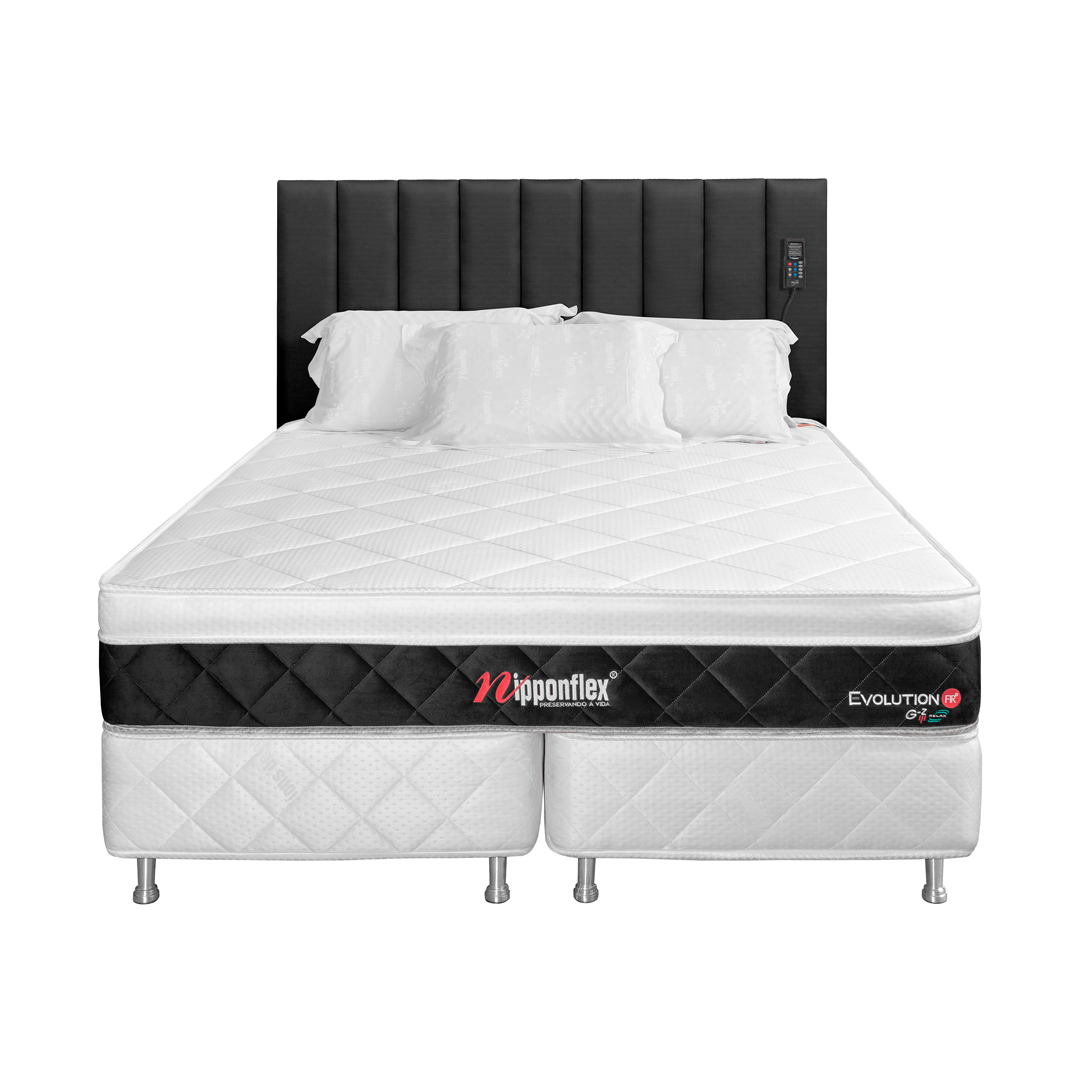
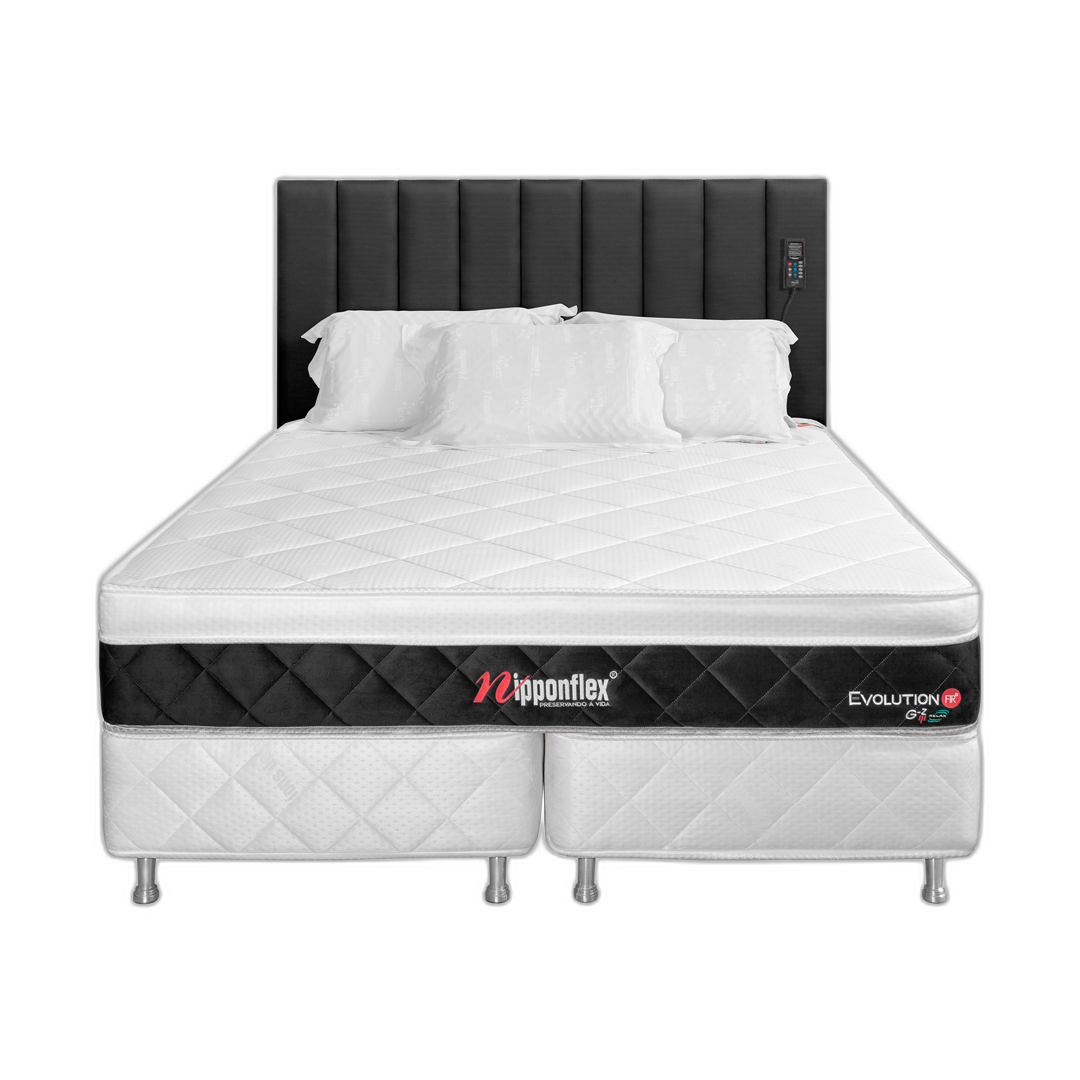
Remove backgrounds from all product images + update refs
All 27 product images processed with rembg for transparent backgrounds.
JPG/JPEG files converted to PNG. Updated references in index.html and main.js.

diff --git a/js/main.js b/js/main.js
@@ -37,7 +37,7 @@
       densidade: 'Progressiva',
       pillow: 'Euro Top',
       techs: ['FIR Power', 'FIR NG', 'MFP', 'Rabatan', 'Íon Balls', 'Magnetos', 'EPS 2000'],
-      imagens: ['star-prime-1.jpg', 'star-prime-2.jpg', 'star-prime-3.jpg'],
+      imagens: ['star-prime-1.png', 'star-prime-2.png', 'star-prime-3.png'],
       idealPara: ['Quem busca o melhor', 'Dores crônicas', 'Profissionais intensos']
     },
     'american-fir': {
@@ -49,7 +49,7 @@
       densidade: 'Progressiva',
       pillow: 'Euro Top',
       techs: ['FIR Power', 'FIR NG', 'MFP', 'Rabatan', 'Íon Balls', 'Magnetos', 'BioPower', 'EPS 2000', 'Íons de Prata'],
-      imagens: ['american-1.jpg', 'american-2.jpeg', 'american-3.jpeg', 'american-4.png'],
+      imagens: ['american-1.png', 'american-2.png', 'american-3.png', 'american-4.png'],
       idealPara: ['Casais exigentes', 'Quem quer massagem ativa', 'Tecnologia máxima']
     },
     'evolution-gz-bio': {
@@ -61,7 +61,7 @@
       densidade: 'Progressiva G-Zero',
       pillow: 'Euro Top',
       techs: ['FIR Power', 'FIR NG', 'MFP', 'Rabatan', 'Íon Balls (12 cápsulas)', 'BioPower', 'G-Zero', 'EPS 2000', 'Íons de Prata'],
-      imagens: ['evo-gz-bio-1.png', 'evo-gz-bio-2.jpeg', 'evo-gz-bio-3.jpeg', 'evo-gz-bio-4.jpeg'],
+      imagens: ['evo-gz-bio-1.png', 'evo-gz-bio-2.png', 'evo-gz-bio-3.png', 'evo-gz-bio-4.png'],
       idealPara: ['Problemas posturais', 'Insônia', 'Máximo de tecnologia terapêutica']
     },
     'evolution-gz-relax': {
@@ -73,7 +73,7 @@
       densidade: 'Progressiva G-Zero',
       pillow: 'Euro Top',
       techs: ['FIR Power', 'FIR NG', 'MFP', 'Rabatan', 'Íon Balls (12)', 'Relax System', 'G-Zero', 'EPS 2000', 'Íons de Prata'],
-      imagens: ['evo-gz-relax-1.png', 'evo-gz-relax-2.jpeg', 'evo-gz-relax-3.jpeg', 'evo-gz-relax-4.jpeg'],
+      imagens: ['evo-gz-relax-1.png', 'evo-gz-relax-2.png', 'evo-gz-relax-3.png', 'evo-gz-relax-4.png'],
       idealPara: ['Relaxamento profundo', 'Casais', 'Controle total pelo celular']
     },
     'evolution-automassagem': {
@@ -85,7 +85,7 @@
       densidade: 'Progressiva (6 camadas)',
       pillow: 'Euro Top',
       techs: ['FIR Power', 'FIR NG', 'MFP', 'Rabatan', 'Íon Balls', 'Magnetos', 'EPS 2000'],
-      imagens: ['evo-auto-1.png', 'evo-auto-2.jpeg', 'evo-auto-3.jpeg', 'evo-auto-4.jpeg'],
+      imagens: ['evo-auto-1.png', 'evo-auto-2.png', 'evo-auto-3.png', 'evo-auto-4.png'],
       idealPara: ['Automassagem natural', 'Dores musculares', 'Ventilação superior']
     },
     'sleep-fir': {
@@ -97,7 +97,7 @@
       densidade: 'Progressiva',
       pillow: null,
       techs: ['FIR Power', 'FIR NG', 'MFP', 'Rabatan', 'Magnetos', 'BioPower', 'EPS 2000'],
-      imagens: ['sleep-fir-1.png', 'sleep-fir-2.jpeg', 'sleep-fir-3.jpeg', 'sleep-fir-4.jpeg'],
+      imagens: ['sleep-fir-1.png', 'sleep-fir-2.png', 'sleep-fir-3.png', 'sleep-fir-4.png'],
       idealPara: ['Primeiro colchão científico', 'Custo-benefício', 'BioPower acessível']
     },
     'quantum-fir-gz': {
@@ -109,7 +109,7 @@
       densidade: 'Progressiva G-Zero (7 camadas)',
       pillow: null,
       techs: ['FIR Power', 'FIR NG', 'MFP', 'Rabatan', 'Magnetos', 'BioPower', 'G-Zero', 'EPS 2000'],
-      imagens: ['quantum-1.png', 'quantum-2.jpeg', 'quantum-3.jpeg', 'quantum-4.jpeg'],
+      imagens: ['quantum-1.png', 'quantum-2.png', 'quantum-3.png', 'quantum-4.png'],
       idealPara: ['Inovação quântica', 'Equilíbrio postural', 'Tecnologia de ponta']
     }
   };

diff --git a/index.html b/index.html
@@ -386,7 +386,7 @@
     <!-- STAR PRIME — Hero Card Destaque -->
     <div class="product-hero-card reveal">
       <div class="product-hero-card-image">
-        <img src="images/produtos/star-prime-1.jpg" alt="Star Prime FIR Automassagem - Topo de Linha Nipponflex" loading="lazy">
+        <img src="images/produtos/star-prime-1.png" alt="Star Prime FIR Automassagem - Topo de Linha Nipponflex" loading="lazy">
       </div>
       <div class="product-hero-card-body">
         <div class="product-badge">★ Topo de Linha</div>
@@ -415,7 +415,7 @@
       <!-- AMERICAN FIR -->
       <div class="product-card reveal">
         <div class="product-card-image">
-          <img src="images/produtos/american-1.jpg" alt="American FIR - Premium Nipponflex" loading="lazy">
+          <img src="images/produtos/american-1.png" alt="American FIR - Premium Nipponflex" loading="lazy">
         </div>
         <div class="product-card-body">
           <div class="product-badge">Premium</div>
